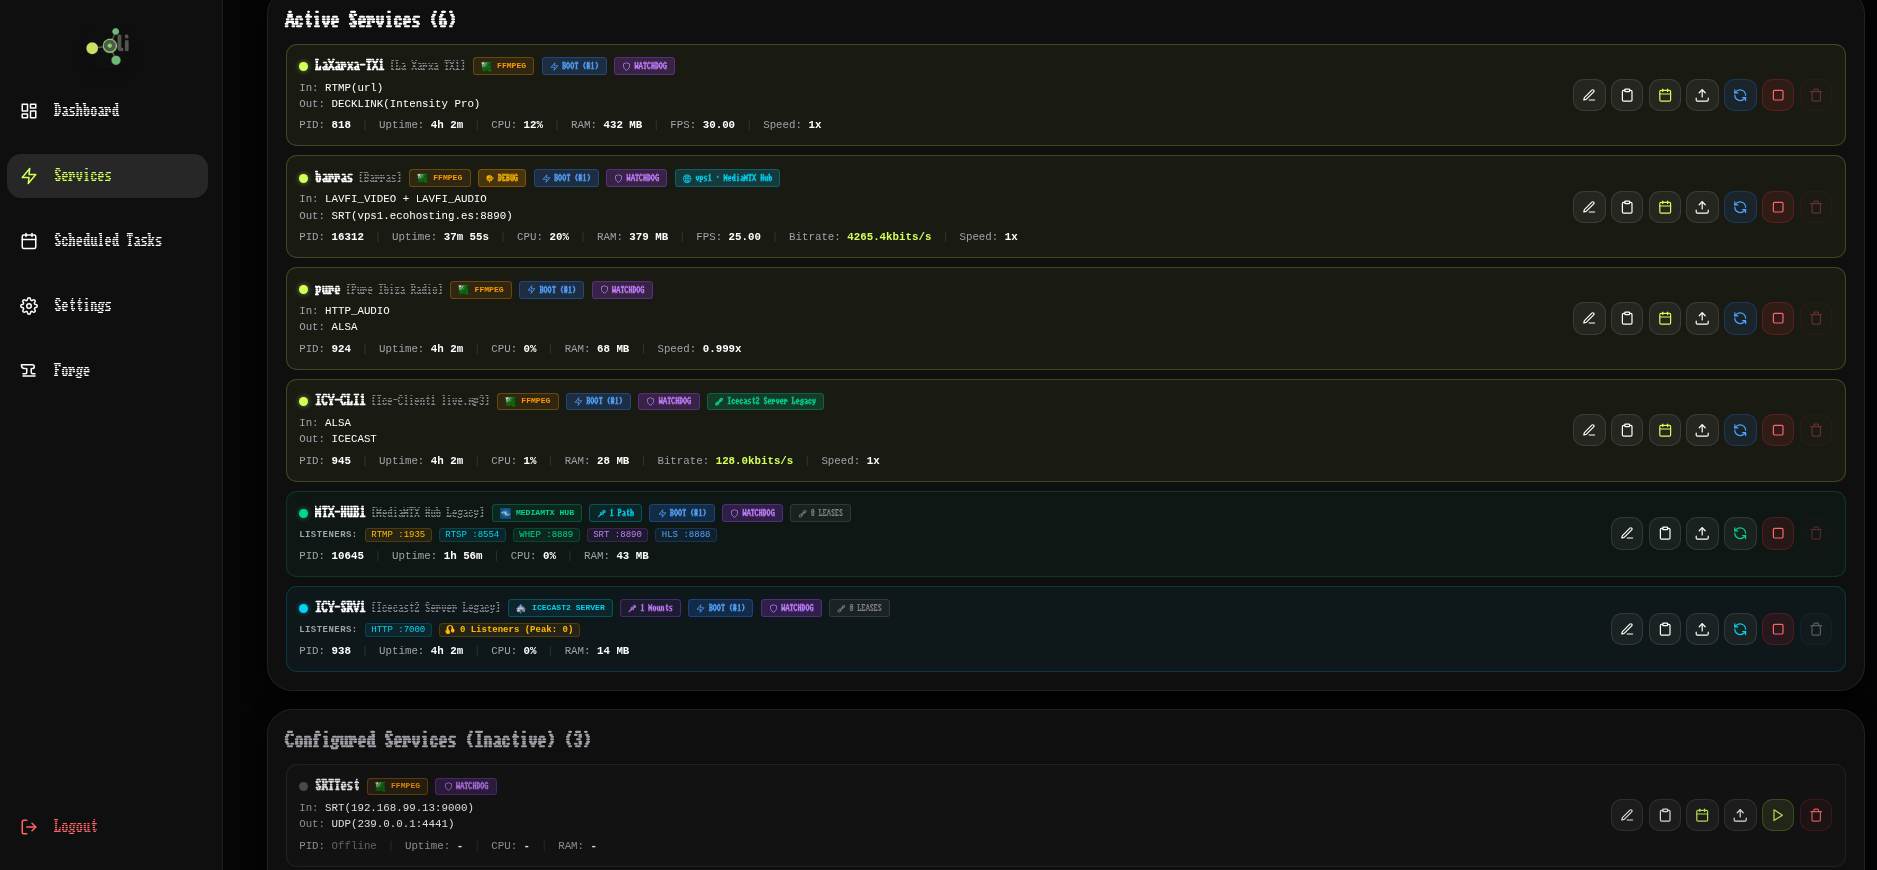
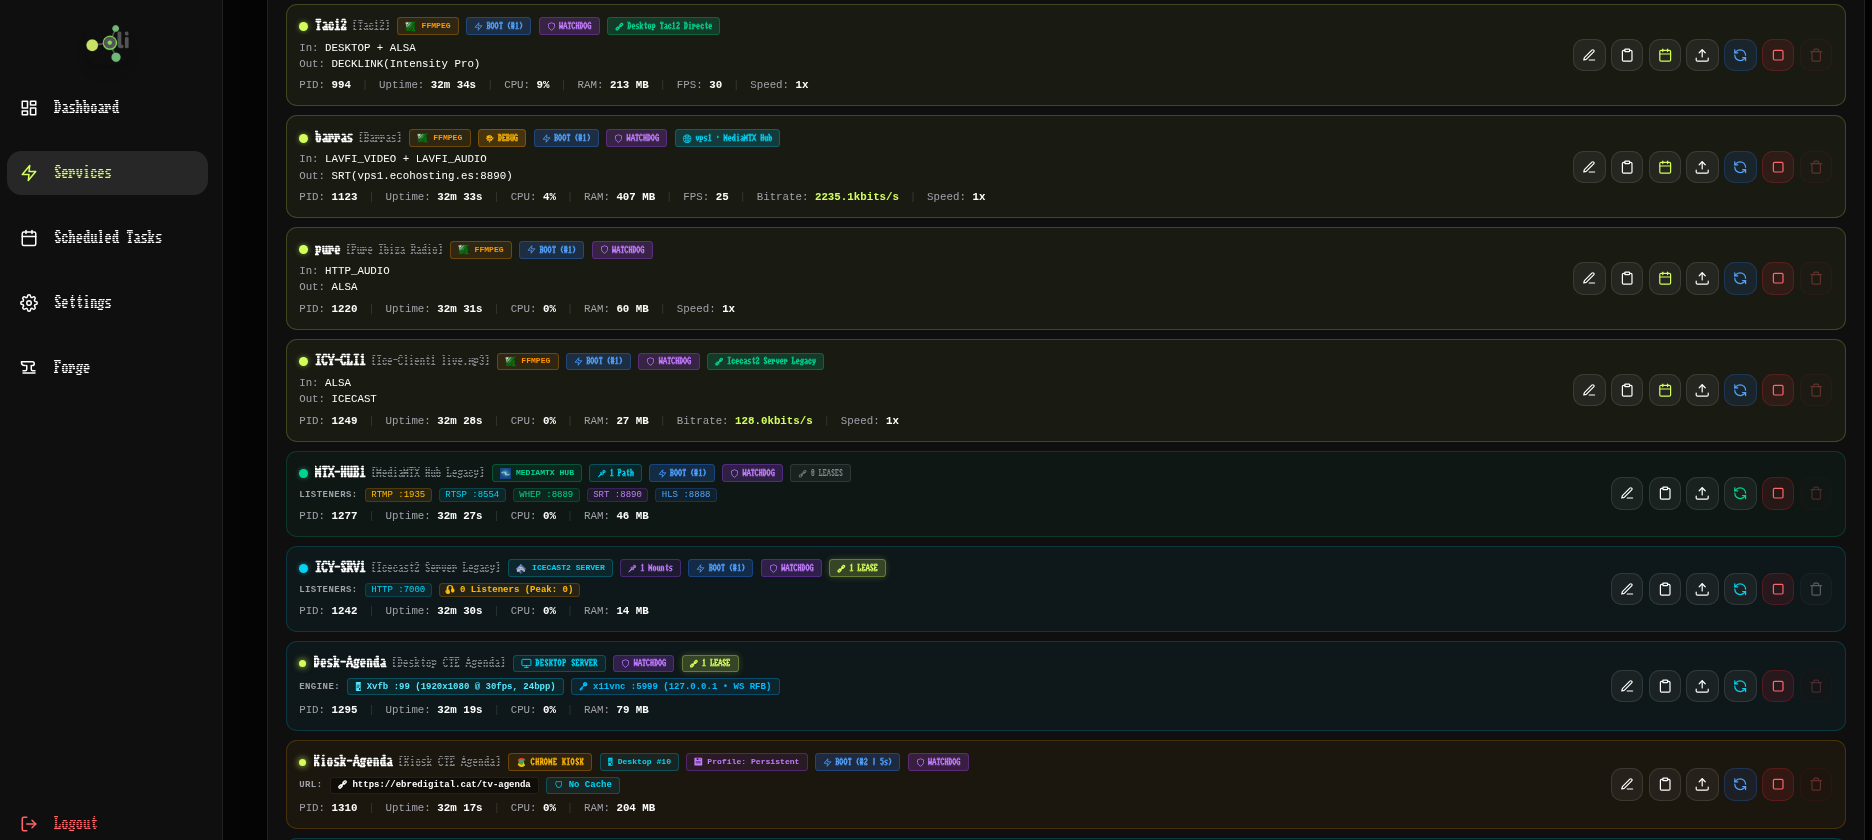
docs(readme): add Virtual Desktops & Kiosks section, integrate screenshots 20-23, and bump to v2.30.0

diff --git a/README.md b/README.md
@@ -77,7 +77,20 @@ Inspired by high-reliability systems and developer utility, it provides an intui
 
 ![Remote Federated Peer Nodes](docs/assets/screenshot19.png)
 
-### 🎛 6. Professional AV Hardware & Control
+### 🖥 6. Virtual Desktops, Web Kiosks & Ingest
+- **X11 Headless Virtual Desktops**: Spawn managed `Xvfb` and `x11vnc` virtual display sessions with configurable resolution, framerate, client-side cursor, and automatic watchdog self-healing.
+- **Embedded noVNC Remote Display**: Full interactive remote control directly within the browser interface, with live connection status, display scaling, and fullscreen view.
+- **Unattended Web Kiosks (Chromium & Firefox ESR)**: Deploy automated browser kiosks targeting specific virtual desktops with popup/first-run suppression, auto-fullscreen via `xdotool`, and GPU acceleration.
+- **Persistent Profiles & Flash Storage Protection**: Decoupled profile architecture preserving cookies and logins across reboots while running cache on fast memory disks (`/dev/shm`) or disabled to protect SATADOM/SD storage.
+- **Direct FFmpeg Desktop Ingest (`x11grab`)**: Capture live video feeds from virtual desktops into FFmpeg pipelines with 1-click 1:1 geometry/framerate alignment and secondary ALSA loopback audio pairing.
+
+![Virtual Desktop Interactive Remote Display](docs/assets/screenshot20.png)
+
+![Web Kiosk Diagnostics & Headless Browser Isolation](docs/assets/screenshot21.png)
+
+![FFmpeg Desktop Ingest & Audio Pairing](docs/assets/screenshot22.png)
+
+### 🎛 7. Professional AV Hardware & Control
 - **Blackmagic DeckLink Hardware Control**: Headless SDI/HDMI connector mapping (half/full duplex), real-time signal lock and format telemetry, and card firmware verification/flashing (`BlackmagicFirmwareUpdater`).
 - **Magewell Capture Cards**: Hardware telemetry and routing for Pro Capture / Eco Capture / USB Capture devices (`mwcap-info` / `mwcap-control`), live FPGA temperature monitoring, connector switching, and V4L2/ALSA stream integration.
 - **AudioScience Soundcards**: Advanced ALSA hardware support, resolving topology mapping and crosspoint volume matrix routing.
@@ -91,39 +104,41 @@ Inspired by high-reliability systems and developer utility, it provides an intui
 
 ![ALSA Audio Routing Matrix](docs/assets/screenshot8.png)
 
+![ALSA Loopback Virtual Audio Routing & Process Bindings](docs/assets/screenshot23.png)
+
 ![Graphic EQ & Dynamics Compressor](docs/assets/screenshot7.png)
 
-### 🛡 7. Decoupled Watchdog Recovery
+### 🛡 8. Decoupled Watchdog Recovery
 - **Automatic Auto-Start**: Recovers crashed or disconnected streams automatically.
 - **Freeze Protection**: Actively monitors process FPS, bitrate, and outputs, force-restarting streams if frames freeze or connection drops.
 - **Jittered Backoff**: Uses exponential backoff delays combined with randomized jitter to break lockstep recovery loops and reduce server resource peaks during network outages.
 
-### ⏰ 8. Task Scheduler & Bilateral Cloning
+### ⏰ 9. Task Scheduler & Bilateral Cloning
 - **Automation Jobs**: Schedule recurring (cron-like) or one-shot encoding tasks (e.g., recording daily broadcasts, scheduled stream dumps).
 - **Safety Runtime Limits**: Define max duration timers to automatically clean up active tasks.
 - **Bilateral Cloning**: Seamlessly convert any active or stopped media service into a scheduled task template, or duplicate a task config into a running daemon service with a single click.
 
 ![Scheduled Tasks & Cron Automation](docs/assets/screenshot4.png)
 
-### 🔒 9. HTTPS & Let's Encrypt SSL Manager
+### 🔒 10. HTTPS & Let's Encrypt SSL Manager
 - **Automated SSL/TLS Certificates**: Request and renew Let's Encrypt certificates directly from the GUI panel.
 - **ACME Challenge Handler**: Integrated HTTP-01 challenge router (`/.well-known/acme-challenge/*`) for automated domain verification.
 - **Status & Monitoring**: Real-time display of certificate validity, domain bindings, and automated expiration warnings.
 
-### 💾 10. Granular Backup & Restore
+### 💾 11. Granular Backup & Restore
 - **Selective Section Toggles**: Export and import specific configuration parts (e.g., backing up media services and scheduled tasks, storage volumes, software engines, and peer federation credentials while leaving SMTP credentials or network port configs unchanged).
 - **Format Verification & SSOT Synchronization**: Validates file integrity, application signature, and version compatibility before performing atomic SQLite database insertions (`SystemSettings`) and configuration file updates.
 
-### 🗄 11. Storage, HTTP HLS Routes, Log Retention & Branding
+### 🗄 12. Storage, HTTP HLS Routes, Log Retention & Branding
 - **Storage Management & HTTP HLS Delivery**: Configure local or mounted storage volumes, monitor disk space usage in real time, and map custom HTTP route paths (`/route_path -> HLS Storage`) with CORS and video caching headers to serve live and archived HLS manifests (`.m3u8`) and segments (`.ts`) directly through the web engine.
 - **Decoupled Logging & Automated Rotation**: Decouples application server logs (`ffmpeg-gui.log`) from HTTP access logs (`access.log`), with noise suppression for media chunks and copytruncate rotation with configurable retention periods.
 - **Branding Customization**: Customize the application name, panel headers, and console branding directly from the interface settings.
 
-### 🔔 12. State-Based SMTP Notifications
+### 🔔 13. State-Based SMTP Notifications
 - **Alert Fatigue Prevention**: Stateful notification queue that filters redundant alerts. Emails are dispatched exclusively on initial stream crashes, recovery success, and final retry exhaustion.
 - **System Health Checks**: Active warnings for pending SSL/TLS certificate expirations and disk space utilization exceeding 90%.
 
-### 📟 13. CFA635 LCD Display Driver
+### 📟 14. CFA635 LCD Display Driver
 - **Serial LCD Integration**: Direct driver control for CrystalFontz CFA635 USB/Serial displays. Renders live CPU, RAM, active stream counts, locator beacons, and handles backlight dimming timeouts.
 - **Bicolor Status LEDs**: Maps physical LEDs to profile monitors:
   - Heartbeat status indicator.
@@ -134,7 +149,7 @@ Inspired by high-reliability systems and developer utility, it provides an intui
   - Recording indicator (active REC pilot).
   - Federated peer status monitor (`P2P` profile with worst-state aggregation).
 
-### 🌐 14. Styling & Localization
+### 🌐 15. Styling & Localization
 - **Multi-Theme Engine**: 5 visual styles (Studio Dark, Cyberpunk Neon, Nordic Frost, Broadcast Light, Warm Paper) loaded instantly without page flash.
 - **Full Translations**: English, Spanish, and Catalan interfaces with 100% i18n parity.
 
@@ -142,7 +157,7 @@ Inspired by high-reliability systems and developer utility, it provides an intui
 
 ![Warm Paper Theme in Task Scheduling](docs/assets/screenshot12.png)
 
-### 🛡 15. Brute-Force Protection & Security Logging (Fail2ban Ready)
+### 🛡 16. Brute-Force Protection & Security Logging (Fail2ban Ready)
 - **In-Memory IP Lockout**: Built-in guard tracks failed login attempts in RAM and temporarily bans abusive clients (`HTTP 429 Too Many Requests` / `Retry-After`) with zero SQLite overhead during attacks.
 - **Permanent Loopback Immunity**: Localhost and loopback interfaces (`127.0.0.1`, `::1`) are hardcoded as immune to prevent locking out local SSH tunnels or reverse proxies, alongside custom CIDR/IP whitelisting.
 - **Standardized Logs for External IDS/IPS**: Standardized warning events emitted in `ffmpeg-gui.log` and Nginx-format HTTP lines in `access.log` with real client IP resolution via `X-Forwarded-For` and `X-Real-IP`.

diff --git a/CHANGELOG.md b/CHANGELOG.md
@@ -7,7 +7,7 @@ and this project adheres to [Semantic Versioning](https://semver.org/spec/v2.0.0
 
 ## [Unreleased]
 
-## [2.29.8] - 2026-09-30
+## [2.30.0] - 2026-09-30
 
 ### Fixed
 - **ALSA Process Binding Resilience for Reattached Processes**:
